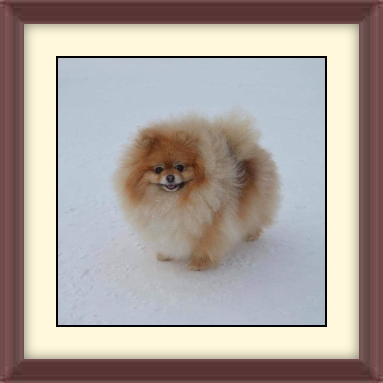
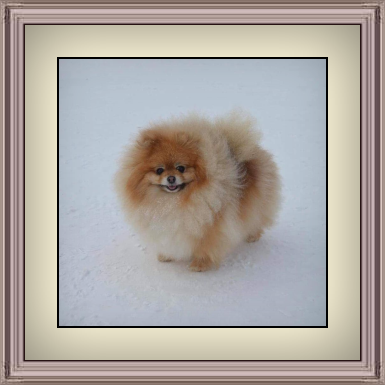
Tweaked example images

diff --git a/run.py b/run.py
@@ -19,7 +19,12 @@ frames = picframe.get_builtin_frames()
 path = os.path.join(demo_imgs, "coolguy1.png")
 img = PIL.Image.open(path)
 frame = PIL.Image.open(frames[0])
-framed = picframe.picframe.beframe(img, frame)
+framed = picframe.picframe.beframe(
+    img,
+    frame,
+    dropshadow_blur_radius=24
+)
+
 outfile = os.path.join(demo_imgs, "coolguy1-framed.png")
 framed.save(outfile)
 
@@ -28,8 +33,8 @@ framed.save(outfile)
 ######################################################################
 path = os.path.join(demo_imgs, "pom.png")
 img = PIL.Image.open(path)
-frame = PIL.Image.open(frames[3])
-framed = picframe.picframe.beframe(img, frame)
+frame = PIL.Image.open(frames[10])
+framed = picframe.picframe.beframe(img, frame, dropshadow_blur_radius=32)
 outfile = os.path.join(demo_imgs, "pom-framed.png")
 framed.save(outfile)
 
@@ -45,8 +50,8 @@ framed = picframe.picframe.beframe(
     mattecolor="purple",
     bordersize=0,
     bordercolor="green",
-    dropshadow_opacity=0.9,
-    dropshadow_blur_radius=6,
+    dropshadow_opacity=1.0,
+    dropshadow_blur_radius=24,
     dropshadow_offset_x=-10,
     dropshadow_offset_y=0
 )

diff --git a/README.md b/README.md
@@ -11,6 +11,13 @@ For example usage, see [run.py](run.py) (which is the script used to generate
 the following images.)
 
 
+# Features
+
+-   Comes with 12 **amazing** built-in frames (which are also called *mouldings*)
+-   The ability to specify thickness and color of the matting and decorative border
+-   Customizable drop shadow for added realism
+
+
 # Example 1
 
 ![pom.png](demo_imgs/pom.png)
